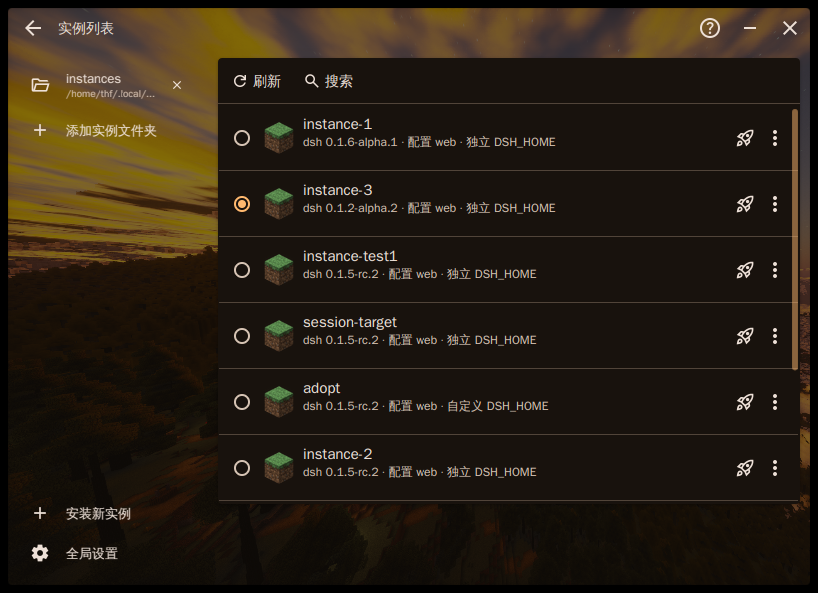
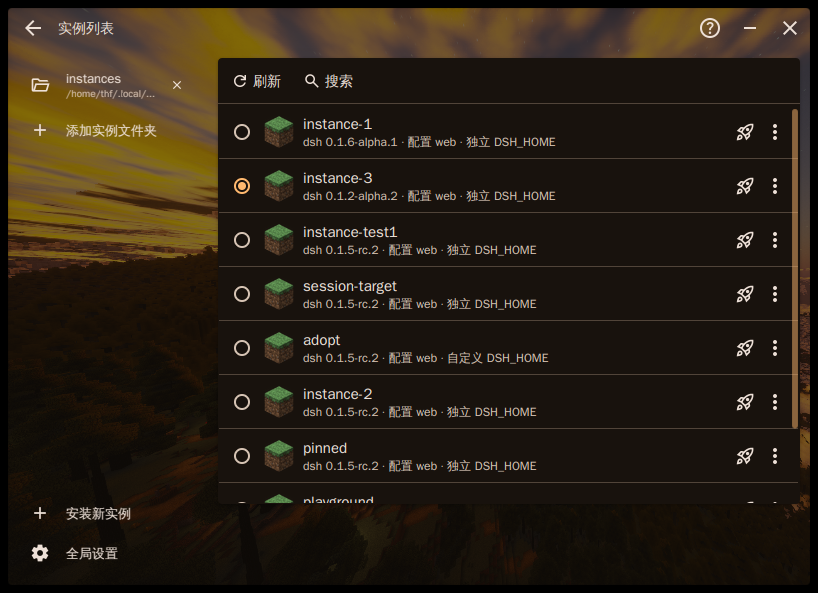
Compare the instance row against the original's, line by line
Diffing the two cells rather than their screenshots found three differences that
looking had not.

The list set a fixed cell size of 66 pixels. The original sets none: the row's
height comes from its content and its padding, and 66 was a number chosen here.
Measured afterwards, this project's rows stand 56 pixels apart against the
original's 55, where before they were 66.

The middle of the row was missing two things the original gives it: a preferred
width of `USE_PREF_SIZE`, which keeps the icon and the text together instead of
letting the row stretch them apart, and a centring alignment on the two-line
label.

Checked while there: the icon's left edge falls at x=265 and the radio button at
x=277 in both windows, so the horizontal alignment was already right. Not
everything is broken; the point is knowing which parts are.

The original also carries an update button on each row, which this has no
equivalent of: its versions are pinned when an instance is made, so there is no
newer one to offer.

diff --git a/src/main/java/org/jackhuang/hmcl/ui/dsh/InstanceListCell.java b/src/main/java/org/jackhuang/hmcl/ui/dsh/InstanceListCell.java
@@ -27,6 +27,7 @@ import javafx.geometry.Pos;
 import javafx.scene.control.ListCell;
 import javafx.scene.layout.BorderPane;
 import javafx.scene.layout.HBox;
+import javafx.scene.layout.Region;
 import org.jackhuang.hmcl.dsh.DshInstance;
 import org.jackhuang.hmcl.dsh.DshInstanceIcons;
 import org.jackhuang.hmcl.ui.FXUtils;
@@ -115,7 +116,11 @@ public final class InstanceListCell extends ListCell<DshInstance> {
         HBox center = new HBox(8);
         center.setAlignment(Pos.CENTER_LEFT);
         center.setMouseTransparent(true);
+        // The original holds the middle at its preferred width and centres the
+        // text within the row rather than stretching it.
+        center.setPrefWidth(Region.USE_PREF_SIZE);
         BorderPane.setMargin(center, new Insets(0, 0, 0, 8));
+        BorderPane.setAlignment(content, Pos.CENTER);
         center.getChildren().setAll(icon, content);
         root.setCenter(center);
 

diff --git a/src/main/java/org/jackhuang/hmcl/ui/dsh/InstancesPage.java b/src/main/java/org/jackhuang/hmcl/ui/dsh/InstancesPage.java
@@ -359,7 +359,9 @@ public final class InstancesPage extends DecoratorAnimatedPage implements Decora
             cell.setRunningCheck(instance -> DshProcessManager.find(instance.id()).isPresent());
             return cell;
         });
-        list.setFixedCellSize(66);
+        // No fixed cell size: the original does not set one here, and a height
+        // chosen here is a number the original never had. The row's height comes
+        // from its content and its padding.
         list.getStyleClass().addAll("edge-to-edge", "no-padding");
         FXUtils.setLimitHeight(list, Region.USE_COMPUTED_SIZE);
         return list;
